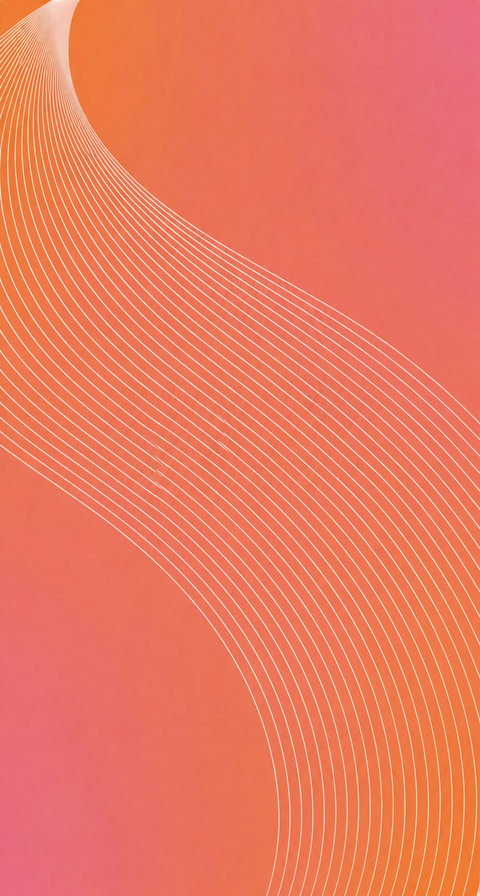
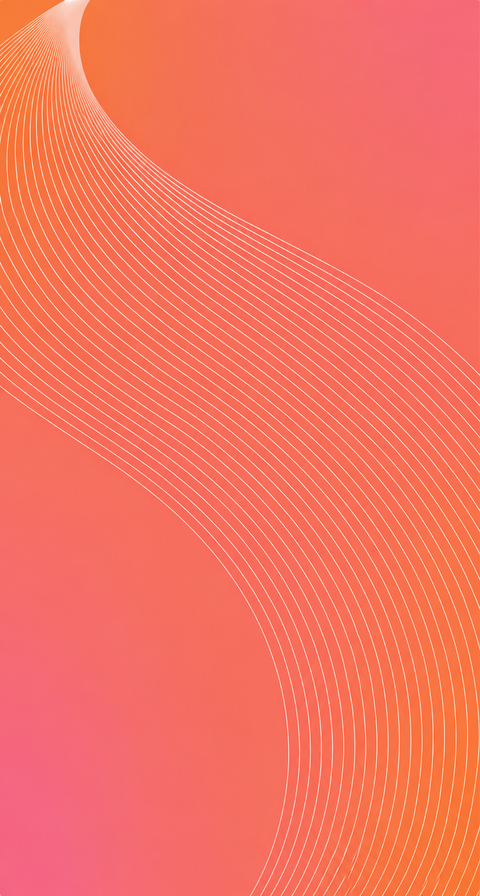
feat: finish wave card visual integration

Changed region(s): [[0.0, 0.0, 1.0, 1.0]]

diff --git a/src/uni_modules/uni-wave-card/components/uni-wave-card/uni-wave-card.vue b/src/uni_modules/uni-wave-card/components/uni-wave-card/uni-wave-card.vue
@@ -2,10 +2,12 @@
   <view class="wave-card">
     <image class="wave-bg" src="/static/wave-card-bg.png" mode="scaleToFill" />
     <view class="wave-frame">
-      <view v-if="title" class="wave-title">{{ title }}</view>
-      <view v-if="contentLines.length" class="wave-content">
-        <view v-for="(line, index) in contentLines" :key="index" class="wave-line">
-          {{ line }}
+      <view class="wave-copy">
+        <view v-if="title" class="wave-title">{{ title }}</view>
+        <view v-if="contentLines.length" class="wave-content">
+          <view v-for="(line, index) in contentLines" :key="index" class="wave-line">
+            {{ line }}
+          </view>
         </view>
       </view>
     </view>
@@ -35,7 +37,7 @@ const contentLines = computed(() =>
   min-height: 896px;
   position: relative;
   overflow: hidden;
-  padding-top: 334px;
+  padding-top: 332px;
   box-sizing: border-box;
   background: #f66b61;
   color: #fffaf0;
@@ -51,8 +53,8 @@ const contentLines = computed(() =>
 .wave-frame {
   position: relative;
   z-index: 1;
-  min-height: 224px;
-  margin: 0 47px 338px;
+  min-height: 226px;
+  margin: 0 45px 338px;
   padding: 30px 22px;
   border: 4px solid rgba(255, 250, 240, 0.96);
   border-radius: 18px;
@@ -65,9 +67,13 @@ const contentLines = computed(() =>
   font-family: Georgia, 'Times New Roman', 'Songti SC', serif;
 }
 
+.wave-copy {
+  transform: translateY(-6px);
+}
+
 .wave-title {
-  font-size: 42px;
-  line-height: 50px;
+  font-size: 38px;
+  line-height: 46px;
   font-weight: 700;
 }
 
@@ -76,8 +82,8 @@ const contentLines = computed(() =>
 }
 
 .wave-line {
-  font-size: 29px;
-  line-height: 34px;
+  font-size: 31px;
+  line-height: 32px;
   font-weight: 400;
 }
 
@@ -85,20 +91,24 @@ const contentLines = computed(() =>
 .wave-card {
   width: 100%;
   min-height: 1400rpx;
-  padding-top: 522rpx;
+  padding-top: 519rpx;
 }
 
 .wave-frame {
-  min-height: 350rpx;
-  margin: 0 73rpx 528rpx;
+  min-height: 353rpx;
+  margin: 0 70rpx 528rpx;
   padding: 47rpx 34rpx;
   border-width: 6rpx;
   border-radius: 28rpx;
 }
 
+.wave-copy {
+  transform: translateY(-9rpx);
+}
+
 .wave-title {
-  font-size: 66rpx;
-  line-height: 78rpx;
+  font-size: 59rpx;
+  line-height: 72rpx;
 }
 
 .wave-content {
@@ -106,8 +116,8 @@ const contentLines = computed(() =>
 }
 
 .wave-line {
-  font-size: 45rpx;
-  line-height: 53rpx;
+  font-size: 48rpx;
+  line-height: 50rpx;
 }
 /* #endif */
 </style>

diff --git a/src/lib/card-painter.js b/src/lib/card-painter.js
@@ -387,20 +387,21 @@ const WAVE = {
   minH: 896,
   bg: '#f66b61',
   pageBg: '#f66b61',
-  frameX: 47,
-  frameY: 334,
-  frameW: 386,
-  frameMinH: 224,
+  frameX: 45,
+  frameY: 332,
+  frameW: 390,
+  frameMinH: 226,
   frameBottom: 338,
   framePadX: 22,
   framePadY: 30,
   frameRadius: 18,
   frameLine: 4,
-  titleSize: 42,
-  titleLH: 50,
-  bodySize: 29,
-  bodyLH: 34,
+  titleSize: 38,
+  titleLH: 46,
+  bodySize: 31,
+  bodyLH: 32,
   titleBodyGap: 2,
+  textOffsetY: -6,
 }
 
 const WAVE_FONT = 'Georgia, "Times New Roman", "Songti SC", serif'
@@ -462,7 +463,8 @@ function paintWave(ctx, fields, imgs, draw) {
   ctx.stroke()
   ctx.restore()
 
-  const blockTop = layout.frameY + (layout.frameHeight - layout.blockHeight) / 2
+  const blockTop =
+    layout.frameY + (layout.frameHeight - layout.blockHeight) / 2 + WAVE.textOffsetY
   ctx.textAlign = 'center'
   ctx.textBaseline = 'alphabetic'
   ctx.fillStyle = '#fffaf0'

diff --git a/tests/card-painter.test.js b/tests/card-painter.test.js
@@ -24,10 +24,11 @@ describe('流线渐变卡 painter', () => {
     expect(painter.measureWaveLayout(measureCtx, waveConfig)).toMatchObject({
       width: 480,
       height: 896,
-      frameX: 47,
-      frameY: 334,
-      frameWidth: 386,
-      frameHeight: 224,
+      frameX: 45,
+      frameY: 332,
+      frameWidth: 390,
+      frameHeight: 226,
+      blockHeight: 144,
       titleLines: ['Lorem Ipsum'],
       contentLines: [
         'is simply dummy text',

diff --git a/design-qa.md b/design-qa.md
@@ -1,0 +1,65 @@
+# 流线渐变卡 Design QA
+
+final result: passed
+
+## 验收基准
+
+- source visual truth path: `C:\Users\bicho\Pictures\ScreenShot_2026-09-01_230237_398.png`
+- implementation screenshot path: `D:\Code\uni-card\.worktrees\wave-card\outputs\wave-design-qa\wave-implementation-480x896.png`
+- full-view comparison evidence: `D:\Code\uni-card\.worktrees\wave-card\outputs\wave-design-qa\wave-comparison-final.png`
+- focused region comparison evidence: `D:\Code\uni-card\.worktrees\wave-card\outputs\wave-design-qa\wave-focused-frame-final.png`
+- browser route: `http://127.0.0.1:4173/#/pages/qa-wave/qa-wave`
+- state: `waveConfig` 出厂示例，默认静态状态
+
+## 视口与归一化
+
+- 参考图像素：264 × 493。
+- 组件 CSS 尺寸：480 × 896；浏览器视口：700 × 1050；`devicePixelRatio = 1.5`。
+- 浏览器全页截图为 700 × 1050；根据密度换算，卡片在截图中为 320 × 597，再用 Lanczos 归一化为 480 × 896。
+- 全图比较前，最终实现继续归一化为 264 × 493，与参考图同像素尺寸并排比较。
+- 局部比较使用两张 264 × 493 图上的同一裁剪框：`x=20, y=175, width=225, height=145`。
+
+## 最终五项检查
+
+- 字体与排版：Georgia/Times 系统衬线回退；标题 38/46、正文 31/32；标题宽度、三行正文换行和垂直节奏与参考图对齐。
+- 间距与布局：卡片 480 × 896；外框 `x=45, y=332, width=390, height=226`；4px 边框、18px 圆角；局部对照无可见错位。
+- 色彩：使用真实栅格背景，珊瑚红、粉红与橙色分布接近参考图；文字与边框为暖白色。
+- 图像质量：背景为 ImageGen 生成并缩放到 480 × 896 的独立 PNG；组件与 Canvas 共用 `/static/wave-card-bg.png`，无 CSS 渐变、SVG 或 div 绘图替代，未见文字残影、锯齿或遮罩边缘。
+- 文案：标题与三行正文逐字匹配参考图；输入页默认值与组件、Canvas 使用同一配置来源。
+
+## 交互与运行检查
+
+- 选择页显示 3 个模板。
+- 点击第三项进入 `/pages/edit/edit?template=wave`。
+- 输入页标题为“流线渐变卡”，显示正文与标题两个字段，默认值正确。
+- 最终浏览器流程无 console warning/error。
+- 导出布局通过 Vitest 覆盖默认 480 × 896、三行正文、长正文扩展和 painter 注册；微信小程序构建另行验证。
+
+## 比较历史
+
+1. 初始捕获：发现截图裁剪坐标受 1.5 密度影响而补黑边；这是归一化问题，不作为设计结论。改为从全页截图按密度裁剪并归一化。
+2. 第一轮有效比较：P2——背景粉红饱和度偏低且流线数量偏少。修复：以参考图与现有干净背景共同约束 ImageGen，替换共享栅格背景。
+3. 第二轮比较：背景色与构图通过；P2——外框横向窄约 3px，标题偏宽，文字组偏低。修复：外框调整为 45/332/390/226，标题调整为 38/46，正文调整为 31/32，文字组上移 6px；组件与 Canvas 同步。
+4. 最终比较：无可执行的 P0/P1/P2。全图与局部证据均确认外框、文案、字体比例和垂直节奏对齐。
+
+## Findings
+
+- 无 P0/P1/P2。
+- P3：干净可编辑背景由参考图重建，个别流线的精确数量与曲率不是逐像素复制，但主体轨迹、密度、色彩和视觉层级一致，不影响模板辨识与使用。
+
+## Open Questions
+
+- 无阻断问题。
+
+## Implementation Checklist
+
+- [x] 独立 `uni-wave-card` 组件
+- [x] 选择页注册与真实缩略样图
+- [x] 输入页字段、默认草稿与重置
+- [x] 复用预览渲染分支
+- [x] 2× Canvas 导出与长文扩展
+- [x] 浏览器全图/局部对照与流程验证
+
+## Follow-up Polish
+
+- 若未来取得无文字、无外框的原始背景源文件，可直接替换共享 PNG，消除剩余 P3 的生成式流线差异，无需修改组件或 painter。
